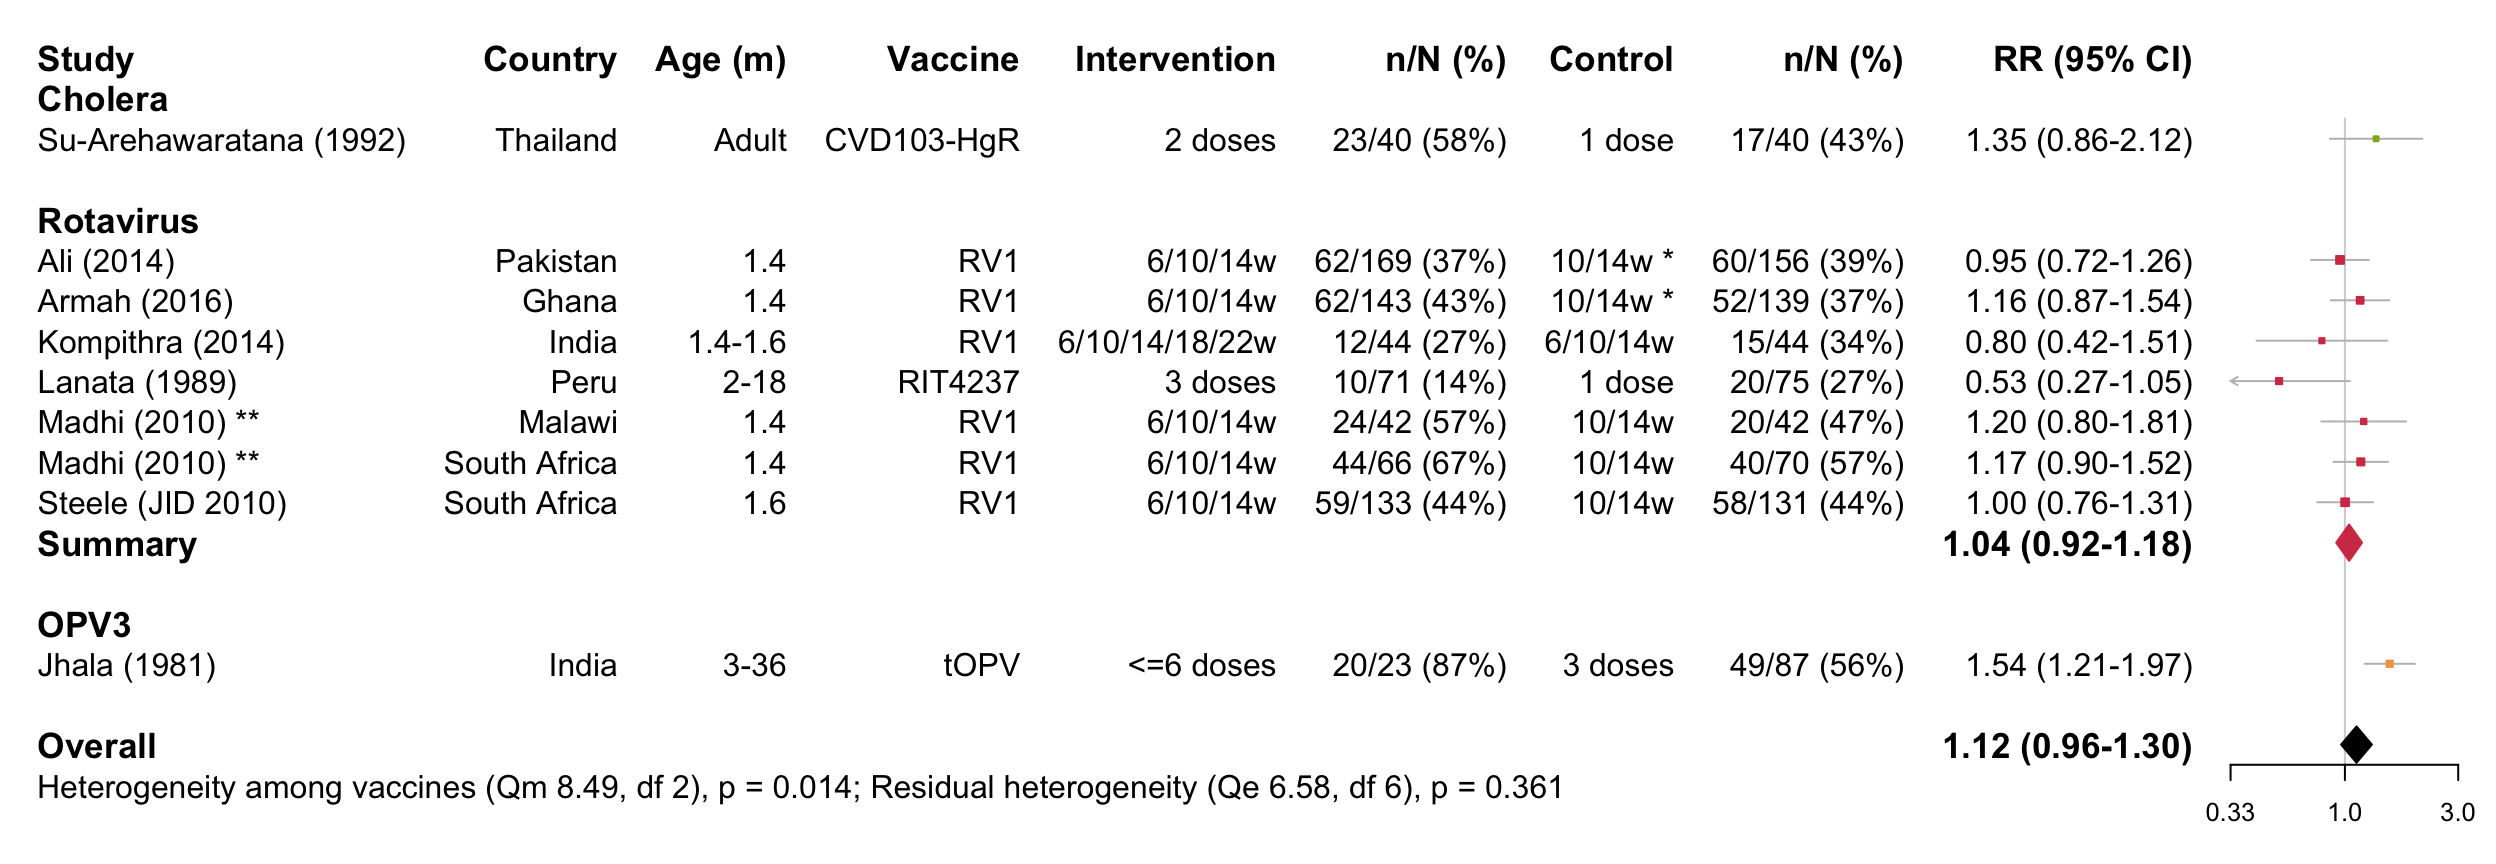
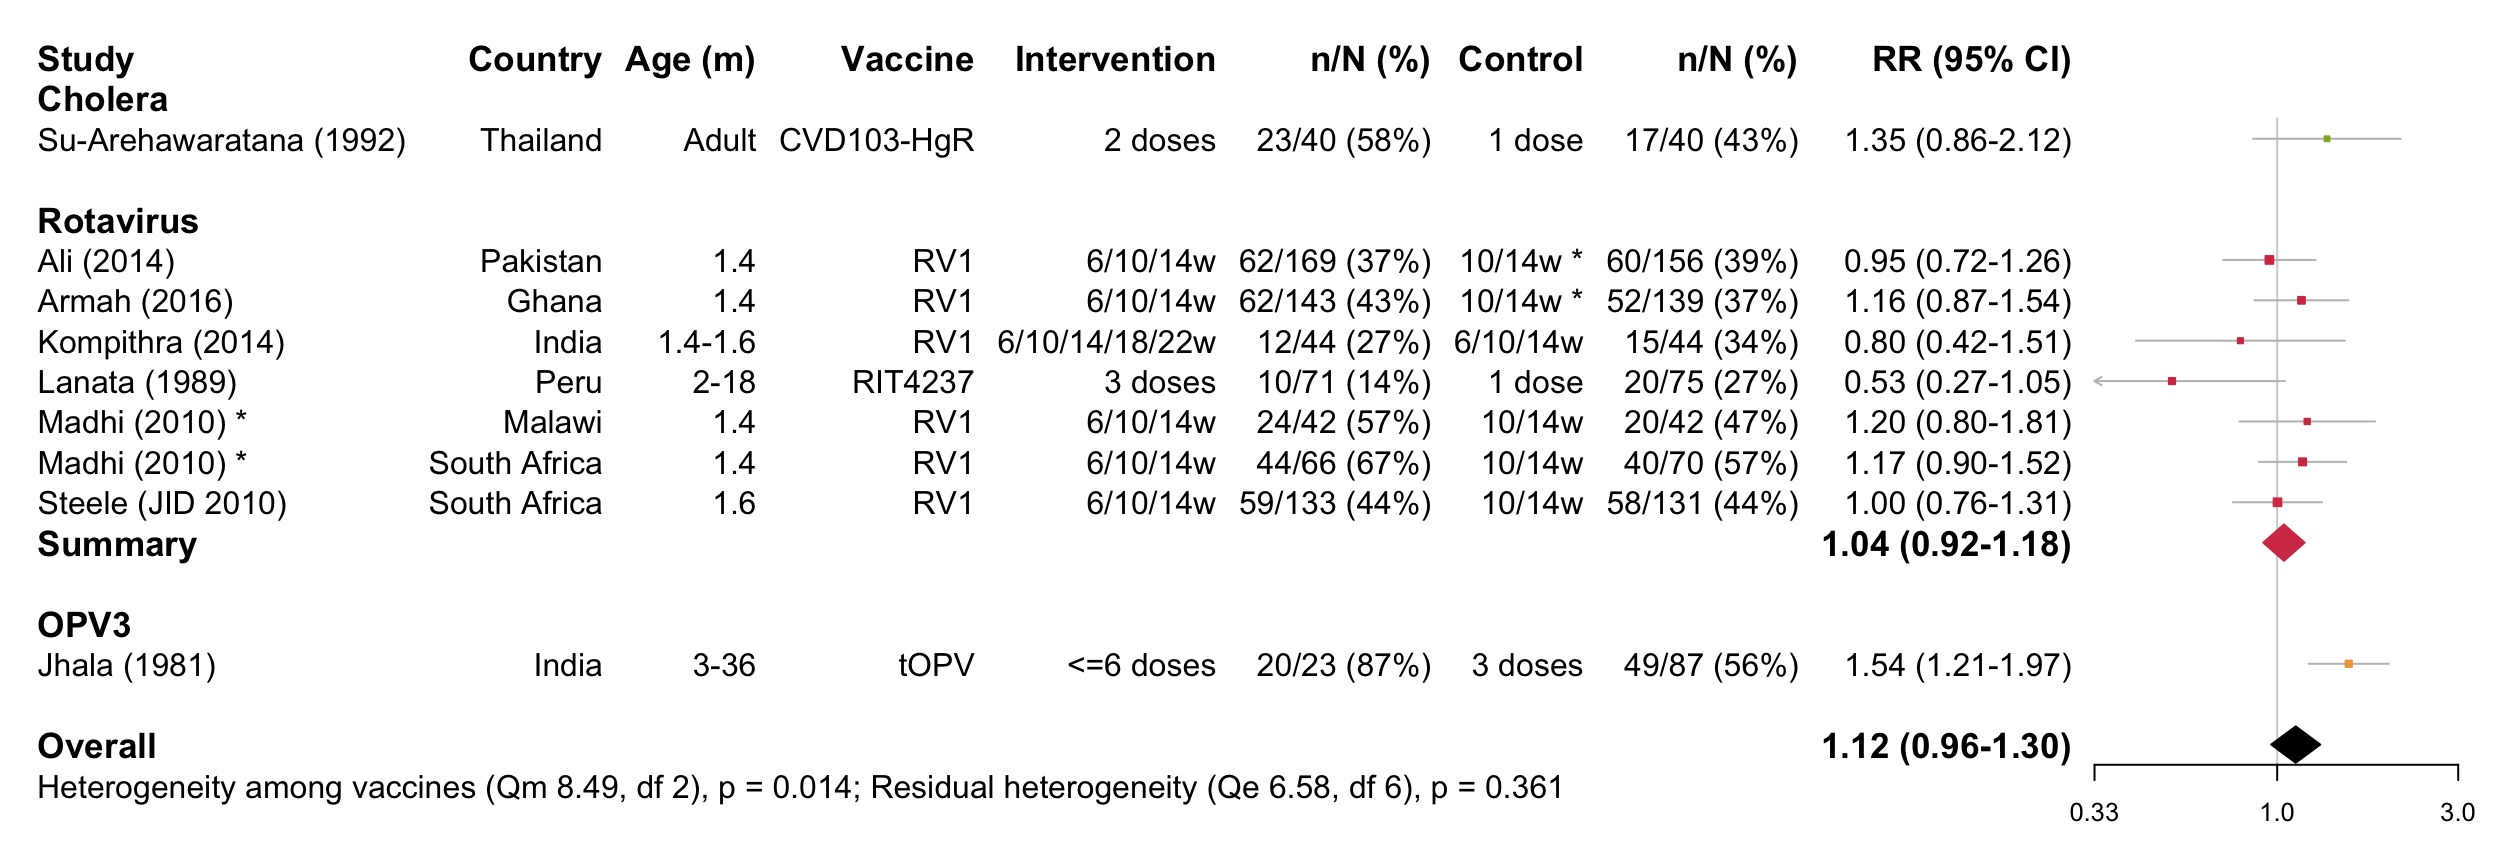
16-June-2018

diff --git a/footnotes.html b/footnotes.html
@@ -275,10 +275,10 @@ $(document).ready(function () {
 
 
 <p><br/> Footnotes</p>
-<p><div id="htmlwidget-e4f01669af72ee8e207c" style="width:100%;height:auto;" class="datatables html-widget"></div>
-<script type="application/json" data-for="htmlwidget-e4f01669af72ee8e207c">{"x":{"filter":"none","data":[["1","2","3","4","5","6","7","8"],["Buffer","Buffer","Delayed first dose","Extra dose(s)","Extra dose(s)","OPV valency","Probiotic","RVV separated from OPV"],["Sack (1997) *","Ing (1991) **","Steele (2010) *","10/14 *","Madhi (2010) **","Sutter (2010) *","De Vrese (2005) *","Steele (2010) *"],["This study also examined another buffer, CeraVacx (sodium bicarbonate, trisodium citrate, rice syrup) with identical results. We excluded these data from the forest plot to avoid replication of the control group.","This study also examined the same buffer at a smaller volume (2ml). We excluded these data from the forest plot to avoid replication of the control group.","Intervention and control arm recruited separately. Exact sample sizes were not reported for immunogenicity data and were therefore estimated by assuming that loss-to-follow-up rates reported in Figure 1 of the trial report were evenly distributed across arms.","Study included both a 6/10w and 10/14w dose schedule. The 10/14w schedule was selected as the control group to ensure consistency with other studies and to delineate the effect of extra doses from delayed doses (considered in a separate comparison).","Immunogenicity data extracted from Madhi et al. (Vaccine 2012) and Cunliffe et al. (Vaccine 2012). Exact sample sizes were not reported for Malawi data; we therefore assumed that the 85 RVV recipients were distributed 1:1 across the 2-dose and 3-dose schedules (n = 42 per arm) and used the reported seroconversion rates (47.2% and 57.1%) to estimate the number of infants who seroconverted.","This study also included an arm comparing bOPV with tOPV. We excluded these data from the forest plot to avoid replication of the control group.","This study also examined another probiotic, Lactobacillus casei CRL431 10^10 cfu, with similar results. We excluded these data from the forest plot to avoid replication of the control group.","Exact sample sizes were not reported for immunogenicity data and were therefore estimated by assuming that loss-to-follow-up rates reported in Figure 1 of the trial report were evenly distributed across arms."]],"container":"<table class=\"display\">\n  <thead>\n    <tr>\n      <th> <\/th>\n      <th>Intervention<\/th>\n      <th>Study<\/th>\n      <th>Notes<\/th>\n    <\/tr>\n  <\/thead>\n<\/table>","options":{"searching":false,"paging":false,"order":[],"autoWidth":false,"orderClasses":false,"columnDefs":[{"orderable":false,"targets":0}]}},"evals":[],"jsHooks":[]}</script> <br/> Acronyms</p>
-<div id="htmlwidget-3691a52728ba4160018b" style="width:100%;height:auto;" class="datatables html-widget"></div>
-<script type="application/json" data-for="htmlwidget-3691a52728ba4160018b">{"x":{"filter":"none","data":[["1","2","3","4","5","6","7","8","9","10","11","12","13","14","15","16","17","18","19","20","21","22","23","24","25"],["1h","4w","50k","Bbb01","BF","(c)","(f)","IPV","IU","Lc ATCC","LGG","OCV","OPV","bOPV","mOPV","tOPV","RVV","RV1","RV5","Ty21a","U/r","Vit A","w/","w/h","w/o"],["One hour","Four weeks","50,000","Bifidobacterium breve 01","Breastfeeding","Centrifuged","Filtered","Inactivated poliovirus vaccine","International Units","Lactobacillus casei ATCC","Lactobacillus GG","Oral cholera vaccine","Oral poliovirus vaccine","Bivalent OPV","Monovalent OPV","Trivalent OPV","Rotavirus vaccine","Rotarix monovalent vaccine","RotaTeq pentavalent vaccine","Live attenuated strain of salmonella typhi","Unrestricted","Vitamin A","With","Withheld","Without"]],"container":"<table class=\"display\">\n  <thead>\n    <tr>\n      <th> <\/th>\n      <th>Acronym<\/th>\n      <th>Notes<\/th>\n    <\/tr>\n  <\/thead>\n<\/table>","options":{"searching":false,"paging":false,"order":[],"autoWidth":false,"orderClasses":false,"columnDefs":[{"orderable":false,"targets":0}]}},"evals":[],"jsHooks":[]}</script>
+<p><div id="htmlwidget-d88483fb06da2ab61ebc" style="width:100%;height:auto;" class="datatables html-widget"></div>
+<script type="application/json" data-for="htmlwidget-d88483fb06da2ab61ebc">{"x":{"filter":"none","data":[["1","2","3","4","5","6","7","8"],["Buffer","Buffer","Delayed first dose","Extra dose(s)","Extra dose(s)","OPV valency","Probiotic","RVV separated from OPV"],["Sack (1997) *","Ing (1991) *","Steele (2010) *","10/14 *","Madhi (2010) *","Sutter (2010) *","De Vrese (2005) *","Steele (2010) *"],["This study also examined another buffer, CeraVacx (sodium bicarbonate, trisodium citrate, rice syrup) with identical results. We excluded these data from the forest plot to avoid replication of the control group.","This study also examined the same buffer at a smaller volume (2ml). We excluded these data from the forest plot to avoid replication of the control group.","Intervention and control arm recruited separately. Exact sample sizes were not reported for immunogenicity data and were therefore estimated by assuming that loss-to-follow-up rates reported in Figure 1 of the trial report were evenly distributed across arms.","Study included both a 6/10w and 10/14w dose schedule. The 10/14w schedule was selected as the control group to ensure consistency with other studies and to delineate the effect of extra doses from delayed doses (considered in a separate comparison).","Immunogenicity data extracted from Madhi et al. (Vaccine 2012) and Cunliffe et al. (Vaccine 2012). Exact sample sizes were not reported for Malawi data; we therefore assumed that the 85 RVV recipients were distributed 1:1 across the 2-dose and 3-dose schedules (n = 42 per arm) and used the reported seroconversion rates (47.2% and 57.1%) to estimate the number of infants who seroconverted.","This study also included an arm comparing bOPV with tOPV. We excluded these data from the forest plot to avoid replication of the control group.","This study also examined another probiotic, Lactobacillus casei CRL431 10^10 cfu, with similar results. We excluded these data from the forest plot to avoid replication of the control group.","Exact sample sizes were not reported for immunogenicity data and were therefore estimated by assuming that loss-to-follow-up rates reported in Figure 1 of the trial report were evenly distributed across arms."]],"container":"<table class=\"display\">\n  <thead>\n    <tr>\n      <th> <\/th>\n      <th>Intervention<\/th>\n      <th>Study<\/th>\n      <th>Notes<\/th>\n    <\/tr>\n  <\/thead>\n<\/table>","options":{"searching":false,"paging":false,"order":[],"autoWidth":false,"orderClasses":false,"columnDefs":[{"orderable":false,"targets":0}]}},"evals":[],"jsHooks":[]}</script> <br/> Acronyms</p>
+<div id="htmlwidget-0dc55f9a59f633e02b36" style="width:100%;height:auto;" class="datatables html-widget"></div>
+<script type="application/json" data-for="htmlwidget-0dc55f9a59f633e02b36">{"x":{"filter":"none","data":[["1","2","3","4","5","6","7","8","9","10","11","12","13","14","15","16","17","18","19","20","21","22","23","24","25"],["1h","4w","50k","Bbb01","BF","(c)","(f)","IPV","IU","Lc ATCC","LGG","OCV","OPV","bOPV","mOPV","tOPV","RVV","RV1","RV5","Ty21a","U/r","Vit A","w/","w/h","w/o"],["One hour","Four weeks","50,000","Bifidobacterium breve 01","Breastfeeding","Centrifuged","Filtered","Inactivated poliovirus vaccine","International Units","Lactobacillus casei ATCC","Lactobacillus GG","Oral cholera vaccine","Oral poliovirus vaccine","Bivalent OPV","Monovalent OPV","Trivalent OPV","Rotavirus vaccine","Rotarix monovalent vaccine","RotaTeq pentavalent vaccine","Live attenuated strain of salmonella typhi","Unrestricted","Vitamin A","With","Withheld","Without"]],"container":"<table class=\"display\">\n  <thead>\n    <tr>\n      <th> <\/th>\n      <th>Acronym<\/th>\n      <th>Notes<\/th>\n    <\/tr>\n  <\/thead>\n<\/table>","options":{"searching":false,"paging":false,"order":[],"autoWidth":false,"orderClasses":false,"columnDefs":[{"orderable":false,"targets":0}]}},"evals":[],"jsHooks":[]}</script>
 
 
 
